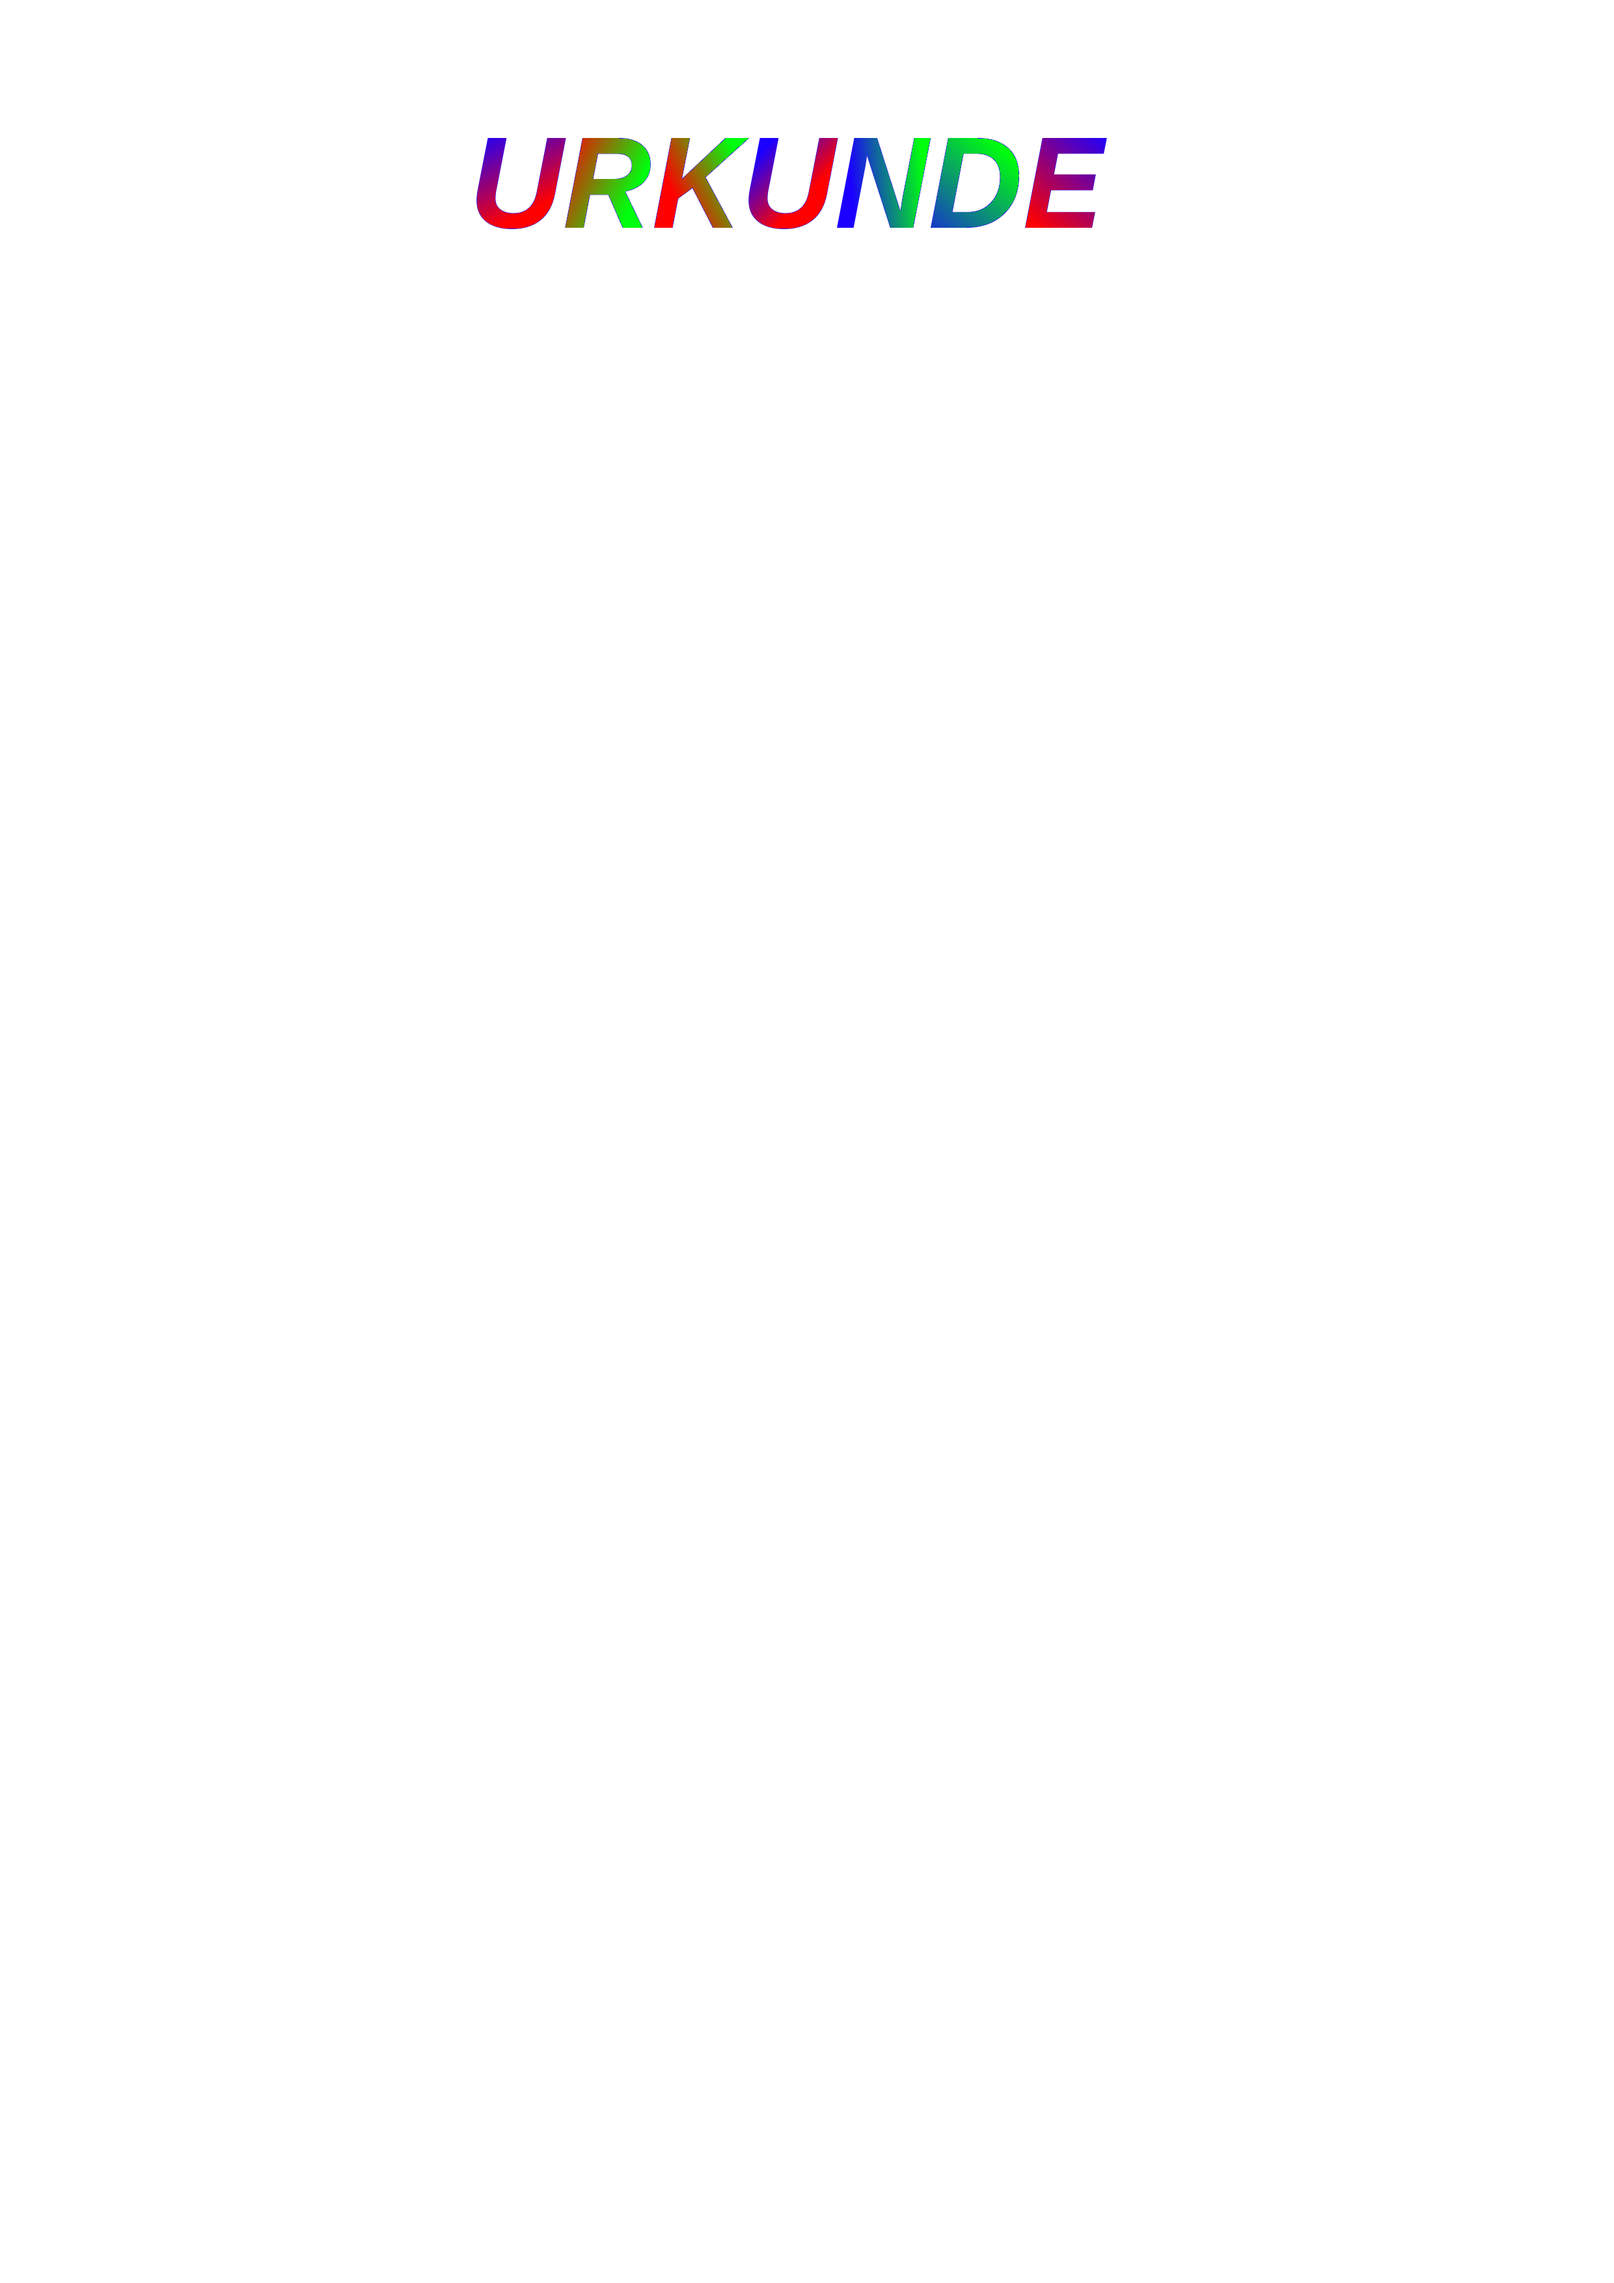
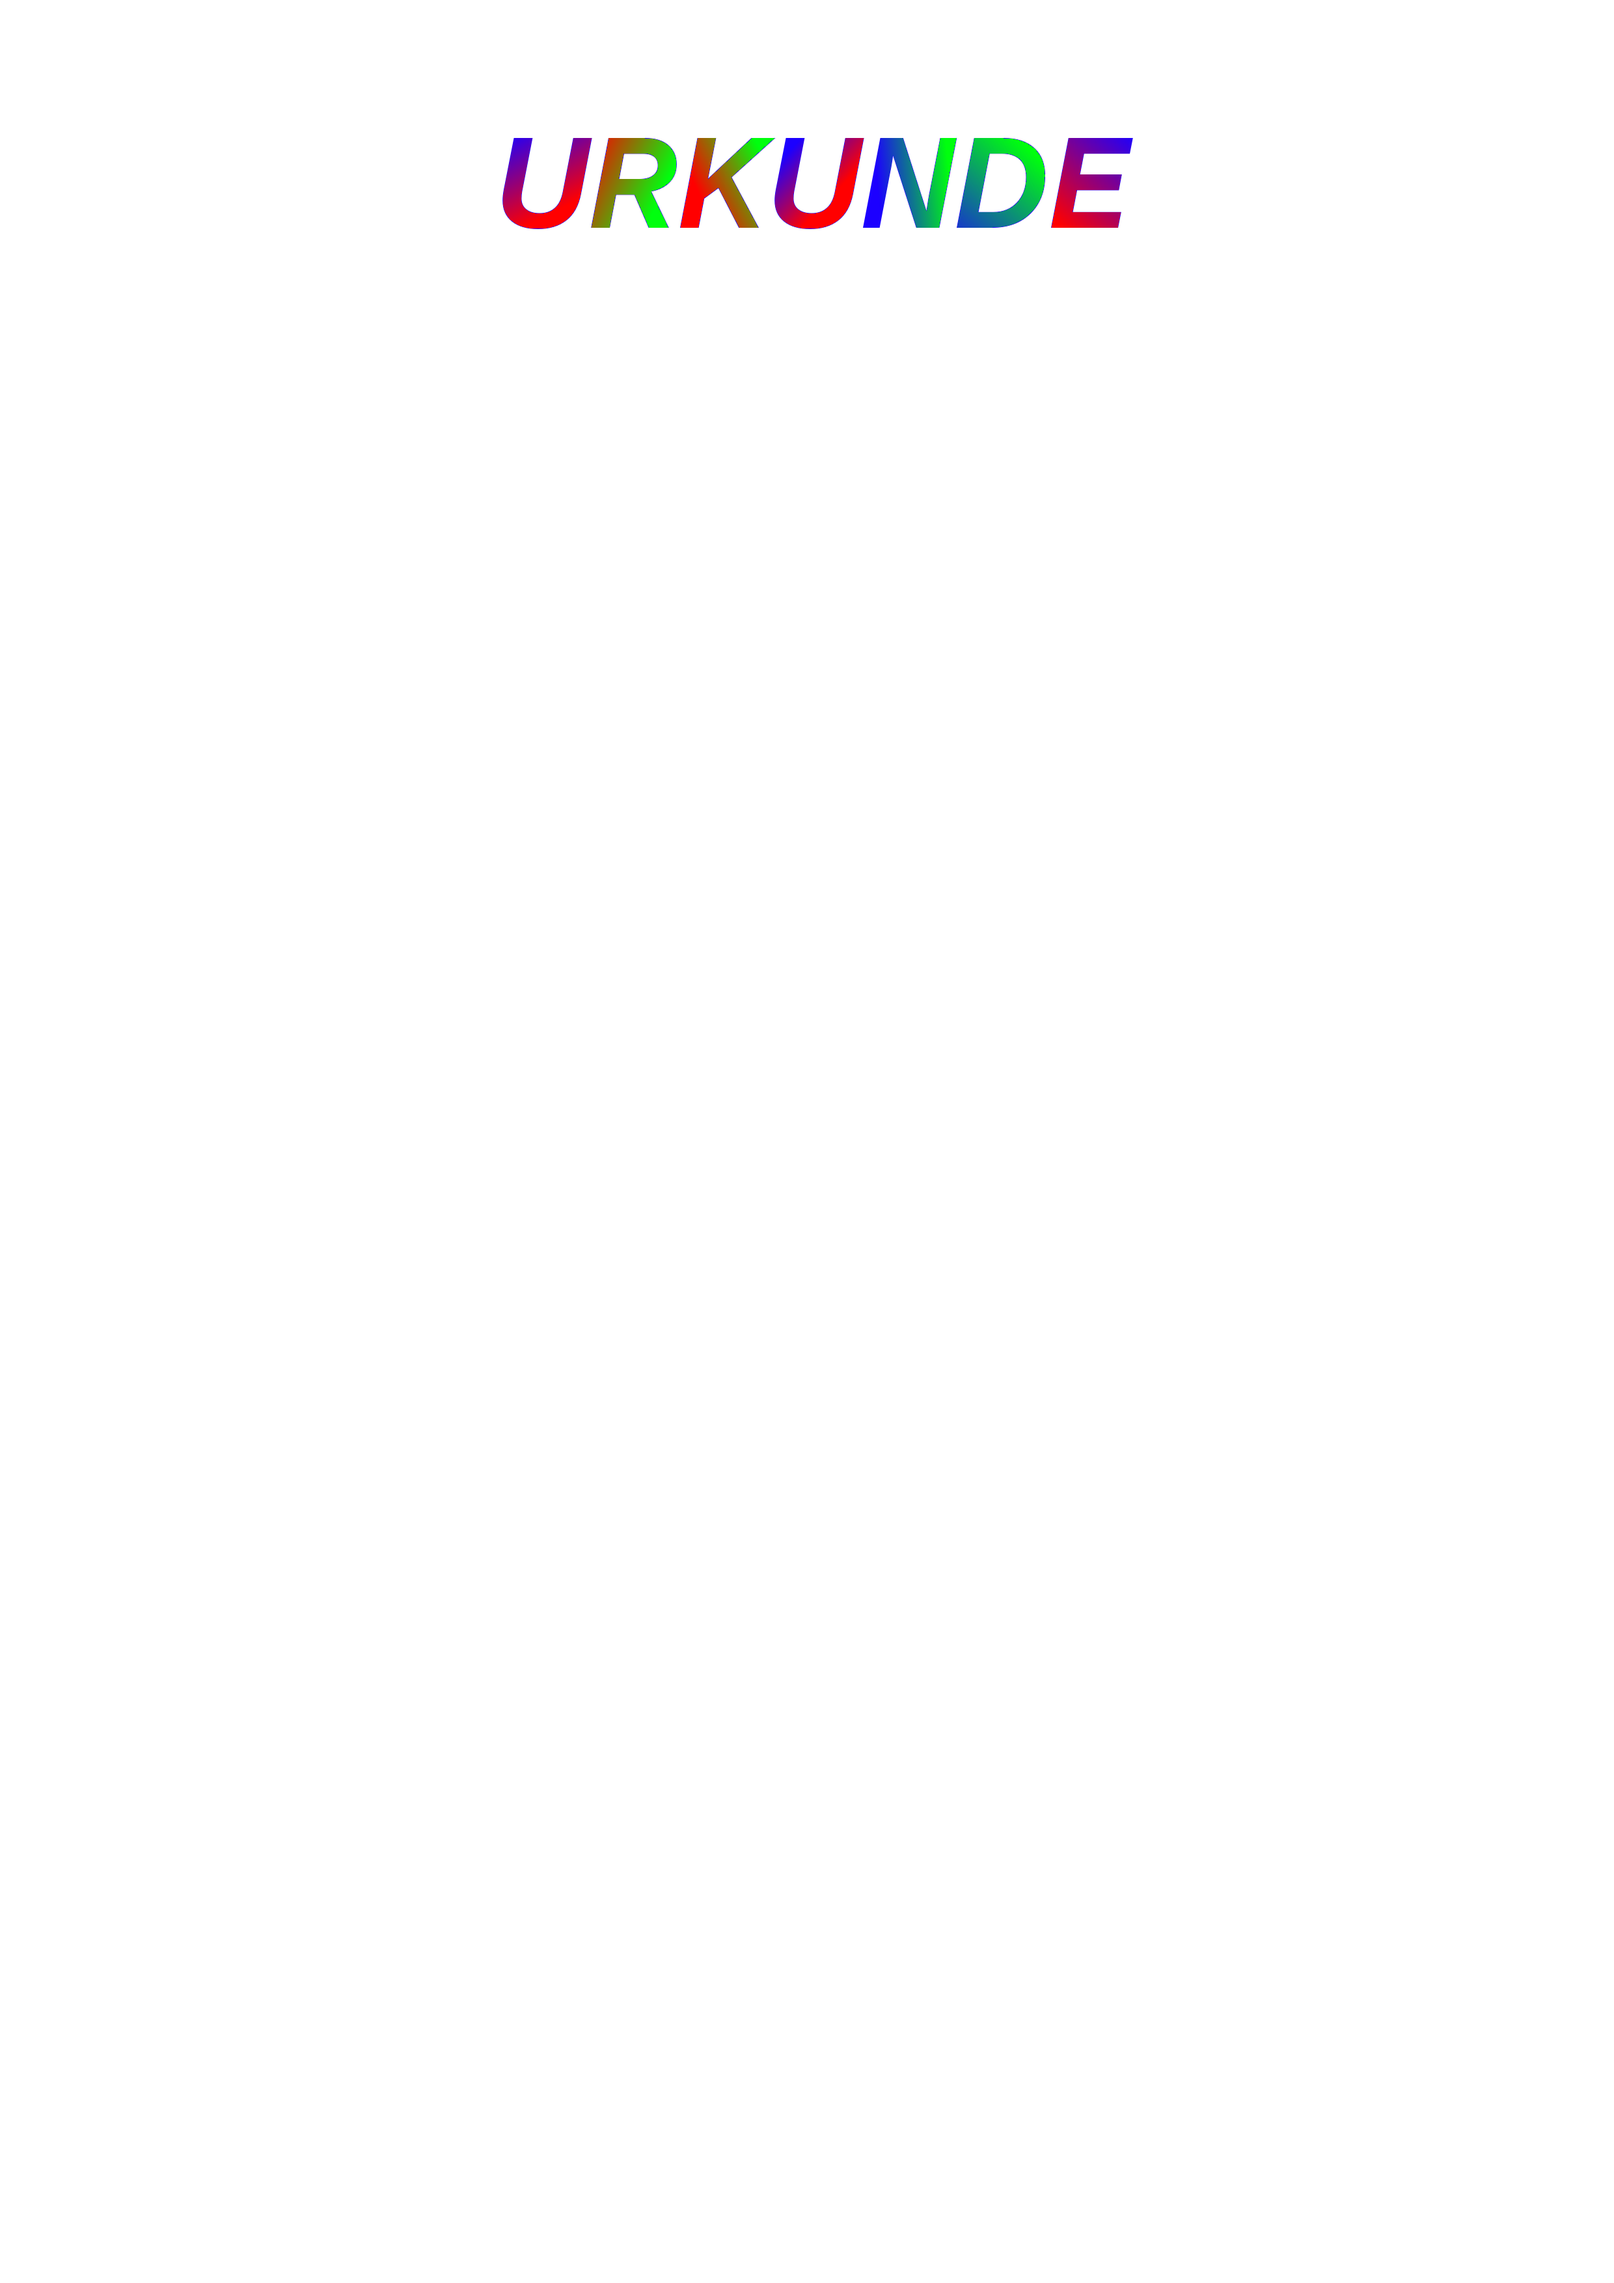
anpassung der Urkunde

Changed region(s): [[0.2794, 0.0621, 0.7141, 0.1243]]

diff --git a/Projekt/Rechtin/css/urkunde.css b/Projekt/Rechtin/css/urkunde.css
@@ -44,14 +44,18 @@ img, #urkundenText{
 
     #urkundenText{
         position: absolute;
-        top: 50%;
+        top: 30%;
         left: 50%;
         /*
         Es verschiebt die x un y Position um 50% des Elements
         */
         transform: translate(-50%, -50%);
         /*Font size noch vergrössern*/
-        font-size: 15rem;
+        font-size: 7rem;
         display: block;
+    }
+
+    #einleitungstext{
+        text-align: center;
     }
 }

diff --git a/Projekt/Rechtin/urkunde.html b/Projekt/Rechtin/urkunde.html
@@ -14,9 +14,11 @@
     <button class="nicht-drucken" id="wiederholen"></button>
     <div id="urkundenText">
         <div id="name" class="inderUrkunde"></div>
+        <p id="einleitungstext">Für die Erfolgreiche Teilnahme am Spiel</p>
+        <p id=""></p>
         <div id="fehlversuche" class="inderUrkunde"></div>
         <div id="etagennummer" class="inderUrkunde"></div>
-    </div>  
+    </div> 
 
 </body>
 </html>

diff --git a/Projekt/Rechtin/js/urkunde.js b/Projekt/Rechtin/js/urkunde.js
@@ -13,6 +13,7 @@ const namedesSpielers = localStorage.getItem("Name");
 
 
 namen.textContent = namedesSpielers;
+console.log(namedesSpielers);
 etage.textContent = etagenzahl;
 fehlversuche.textContent = fehlversuchezahl;
 
